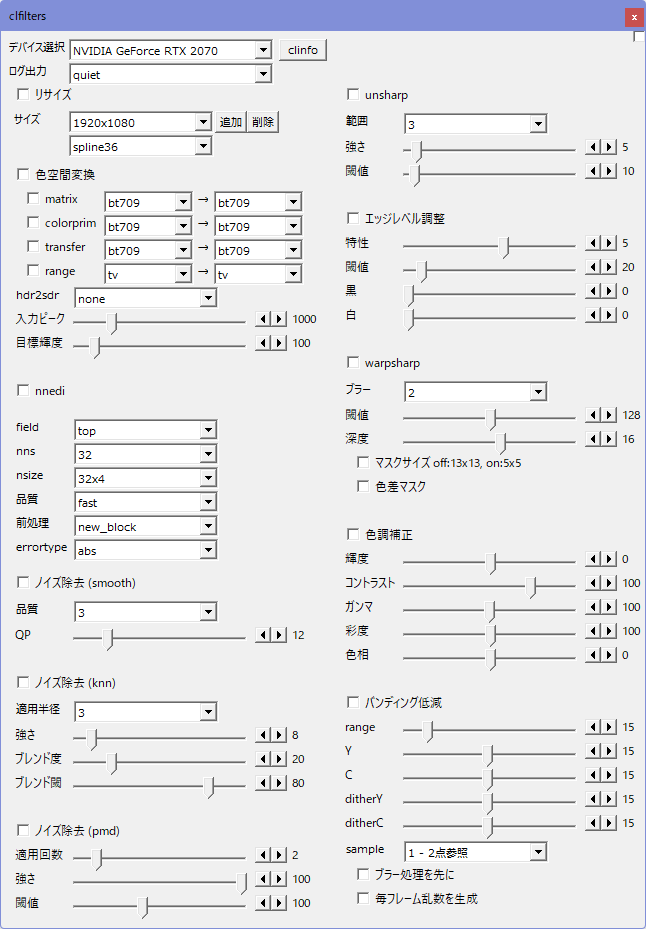
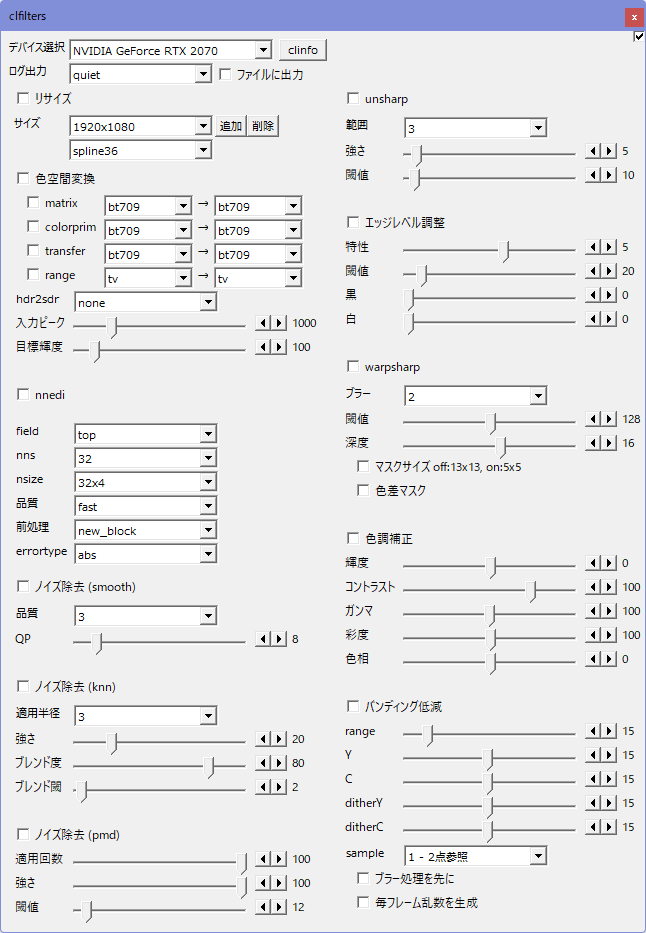
ログ出力の扱いを改善。

diff --git a/clfilters/clfilters_chain.cpp b/clfilters/clfilters_chain.cpp
@@ -39,6 +39,24 @@
 #include "rgy_filter_deband.h"
 #include "rgy_filter_tweak.h"
 
+static const TCHAR *LOG_FILE_NAME = "clfilters.auf.log";
+
+static const auto CLFILTER_TO_STR = make_array<std::pair<clFilter, tstring>>(
+    std::make_pair(clFilter::UNKNOWN,    _T("unknown")),
+    std::make_pair(clFilter::COLORSPACE, _T("colorspace")),
+    std::make_pair(clFilter::NNEDI,      _T("nnedi")),
+    std::make_pair(clFilter::KNN,        _T("knn")),
+    std::make_pair(clFilter::PMD,        _T("pmd")),
+    std::make_pair(clFilter::SMOOTH,     _T("smooth")),
+    std::make_pair(clFilter::RESIZE,     _T("resize")),
+    std::make_pair(clFilter::UNSHARP,    _T("unsharp")),
+    std::make_pair(clFilter::EDGELEVEL,  _T("edgelevel")),
+    std::make_pair(clFilter::WARPSHARP,  _T("warpsharp")),
+    std::make_pair(clFilter::TWEAK,      _T("tweak")),
+    std::make_pair(clFilter::DEBAND,     _T("deband"))
+);
+MAP_PAIR_0_1(clfilter, cl, clFilter, str, tstring, CLFILTER_TO_STR, clFilter::UNKNOWN, _T("unknown"));
+
 clFilterFrameBuffer::clFilterFrameBuffer(std::shared_ptr<RGYOpenCLContext> cl) :
     m_cl(cl),
     m_frame(),
@@ -106,7 +124,8 @@ clFilterChainParam::clFilterChainParam() :
     warpsharp(),
     tweak(),
     deband(),
-    log_level(RGY_LOG_QUIET) {
+    log_level(RGY_LOG_QUIET),
+    log_to_file(false) {
 
 }
 
@@ -123,7 +142,8 @@ bool clFilterChainParam::operator==(const clFilterChainParam &x) const {
         && warpsharp == x.warpsharp
         && tweak == x.tweak
         && deband == x.deband
-        && log_level == x.log_level;
+        && log_level == x.log_level
+        && log_to_file == x.log_to_file;
 }
 bool clFilterChainParam::operator!=(const clFilterChainParam &x) const {
     return !(*this == x);
@@ -180,11 +200,7 @@ void clFilterChain::close() {
     m_deviceID = -1;
 }
 
-void clFilterChain::PrintMes(int logLevel, const TCHAR *format, ...) {
-    if (logLevel < RGY_LOG_ERROR) {
-        return;
-    }
-
+void clFilterChain::PrintMes(const RGYLogLevel logLevel, const TCHAR *format, ...) {
     va_list args;
     va_start(args, format);
 
@@ -193,11 +209,17 @@ void clFilterChain::PrintMes(int logLevel, const TCHAR *format, ...) {
     _vstprintf_s(buffer.data(), len, format, args);
     va_end(args);
 
+    m_log->write_log(logLevel, RGY_LOGT_APP, buffer.data());
+
+    if (logLevel < RGY_LOG_ERROR) {
+        return;
+    }
+
     MessageBoxA(NULL, buffer.data(), AUF_FULL_NAME, MB_OK | MB_ICONEXCLAMATION);
 }
 
-RGY_ERR clFilterChain::init(const int platformID, const int deviceID, const cl_device_type device_type, const RGYLogLevel log_level) {
-    m_log = std::make_shared<RGYLog>("clfiters.auf.log", log_level);
+RGY_ERR clFilterChain::init(const int platformID, const int deviceID, const cl_device_type device_type, const RGYLogLevel log_level, const bool log_to_file) {
+    m_log = std::make_shared<RGYLog>(log_to_file ? LOG_FILE_NAME : nullptr, log_level);
 
     if (auto err = initOpenCL(platformID, deviceID, device_type); err != RGY_ERR_NONE) {
         return err;
@@ -212,15 +234,22 @@ RGY_ERR clFilterChain::init(const int platformID, const int deviceID, const cl_d
                  RGY_CSP_NAMES[RGY_CSP_YC48], RGY_CSP_NAMES[RGY_CSP_YUV444_16]);
         return RGY_ERR_INVALID_COLOR_FORMAT;
     }
+    PrintMes(RGY_LOG_INFO, _T("color conversion %s -> %s [%s].\n"),
+        RGY_CSP_NAMES[RGY_CSP_YC48], RGY_CSP_NAMES[RGY_CSP_YUV444_16], get_simd_str(m_convert_yc48_to_yuv444_16->getFunc()->simd));
+
     m_convert_yuv444_16_to_yc48 = std::make_unique<RGYConvertCSP>();
     if (m_convert_yuv444_16_to_yc48->getFunc(RGY_CSP_YUV444_16, RGY_CSP_YC48, false, RGY_SIMD::SIMD_ALL) == nullptr) {
         PrintMes(RGY_LOG_ERROR, _T("unsupported color format conversion, %s -> %s\n"), RGY_CSP_NAMES[RGY_CSP_YUV444_16], RGY_CSP_NAMES[RGY_CSP_YC48]);
         return RGY_ERR_INVALID_COLOR_FORMAT;
     }
+    PrintMes(RGY_LOG_INFO, _T("color conversion %s -> %s [%s].\n"),
+        RGY_CSP_NAMES[RGY_CSP_YUV444_16], RGY_CSP_NAMES[RGY_CSP_YC48], get_simd_str(m_convert_yuv444_16_to_yc48->getFunc()->simd));
     return RGY_ERR_NONE;
 }
 
 RGY_ERR clFilterChain::initOpenCL(const int platformID, const int deviceID, const cl_device_type device_type) {
+    PrintMes(RGY_LOG_INFO, _T("start init OpenCL platform %d, device %d\n"), platformID, deviceID);
+
     RGYOpenCL cl(m_log);
     auto platforms = cl.getPlatforms(nullptr);
     if (platforms.size() == 0) {
@@ -232,6 +261,7 @@ RGY_ERR clFilterChain::initOpenCL(const int platformID, const int deviceID, cons
         PrintMes(RGY_LOG_ERROR, _T("platform %d does not exist (platform count = %d)\n"), platformID, (int)platforms.size());
         return RGY_ERR_DEVICE_NOT_FOUND;
     }
+    PrintMes(RGY_LOG_INFO, _T("OpenCL platform count %d\n"), (int)platforms.size());
 
     auto& platform = platforms[std::max(platformID, 0)];
 
@@ -240,7 +270,7 @@ RGY_ERR clFilterChain::initOpenCL(const int platformID, const int deviceID, cons
         PrintMes(RGY_LOG_ERROR, _T("Failed to create device list: %s\n"), get_err_mes(err));
         return RGY_ERR_DEVICE_NOT_FOUND;
     }
-    PrintMes(RGY_LOG_DEBUG, _T("created device list: %d device(s).\n"), platform->devs().size());
+    PrintMes(RGY_LOG_INFO, _T("created device list: %d device(s).\n"), platform->devs().size());
 
     if (deviceID >= 0 && deviceID >= (int)platform->devs().size()) {
         PrintMes(RGY_LOG_ERROR, _T("Invalid device Id %d (device count %d)\n"), deviceID, (int)platform->devs().size());
@@ -253,12 +283,14 @@ RGY_ERR clFilterChain::initOpenCL(const int platformID, const int deviceID, cons
         PrintMes(RGY_LOG_ERROR, _T("Failed to create OpenCL context.\n"));
         return RGY_ERR_UNKNOWN;
     }
+
     const auto devInfo = platform->dev(0).info();
     m_deviceName = (devInfo.board_name_amd.length() > 0) ? devInfo.board_name_amd : devInfo.name;
     m_platformID = platformID;
     m_deviceID = deviceID;
     m_queueSendIn = m_cl->createQueue(platform->dev(0).id(), 0 /*CL_QUEUE_PROFILING_ENABLE*/);
 
+    PrintMes(RGY_LOG_INFO, _T("created OpenCL context, selcted device %s.\n"), m_deviceName.c_str());
     return RGY_ERR_NONE;
 }
 
@@ -482,6 +514,15 @@ RGY_ERR clFilterChain::configureOneFilter(std::unique_ptr<RGYFilter>& filter, RG
     return RGY_ERR_NONE;
 }
 
+tstring clFilterChain::printFilterChain(const std::vector<clFilter>& filterChain) const {
+    tstring str;
+    for (auto& filter : filterChain) {
+        if (str.length() > 0) str += _T(", ");
+        str += clfilter_cl_to_str(filter);
+    }
+    return str;
+}
+
 bool clFilterChain::filterChainEqual(const std::vector<clFilter>& target) const {
     if (m_filters.size() != target.size()) {
         return false;
@@ -503,6 +544,8 @@ RGY_ERR clFilterChain::filterChainCreate(const RGYFrameInfo *pInputFrame, const 
     const bool resizeRequired = pInputFrame->width != outWidth || pInputFrame->height != outHeight;
     const auto filterChain = m_prm.getFilterChain(resizeRequired);
     if (!filterChainEqual(filterChain)) {
+        PrintMes(RGY_LOG_INFO, _T("clFilterChain changed: %s\n"), printFilterChain(filterChain).c_str());
+
         decltype(m_filters) newFilters;
         newFilters.reserve(filterChain.size());
         for (const auto filterType : filterChain) {
@@ -530,6 +573,7 @@ RGY_ERR clFilterChain::filterChainCreate(const RGYFrameInfo *pInputFrame, const 
 void clFilterChain::resetPipeline() {
     m_frameIn->resetCachedFrames();
     m_frameOut->resetCachedFrames();
+    PrintMes(RGY_LOG_DEBUG, _T("clFilterChain reset pipeline.\n"));
 }
 
 static void copyFramePropWithoutCsp(RGYFrameInfo *dst, const RGYFrameInfo *src) {
@@ -624,6 +668,7 @@ RGY_ERR clFilterChain::proc(const int frameID, const int outWidth, const int out
     }
     m_cl->setModuleHandle(prm.hModule);
     m_log->setLogLevel(prm.log_level, RGY_LOGT_ALL);
+    m_log->setLogFile(prm.log_to_file ? LOG_FILE_NAME : nullptr);
     m_prm = prm;
 
     auto frameDevOut = m_frameOut->get_in(outWidth, outHeight);

diff --git a/clfilters/clfilters.cpp b/clfilters/clfilters.cpp
@@ -333,6 +333,7 @@ const TCHAR *check_name[] = {
 #if ENABLE_FIELD
     "フィールド処理",
 #endif //#if ENABLE_FIELD
+    "ファイルに出力", // log to file
     "リサイズ",
     "色空間変換", "matrix", "colorprim", "transfer", "range",
     "ノイズ除去 (smooth)",
@@ -350,7 +351,10 @@ enum {
 #if ENABLE_FIELD
     CLFILTER_CHECK_FIELD,
 #endif //#if ENABLE_FIELD
-    CLFILTER_CHECK_RESIZE_ENABLE,
+    CLFILTER_CHECK_LOG_TO_FILE,
+    CLFILTER_CHECK_LOG_MAX,
+
+    CLFILTER_CHECK_RESIZE_ENABLE = CLFILTER_CHECK_LOG_MAX,
     CLFILTER_CHECK_RESIZE_MAX,
 
     CLFILTER_CHECK_COLORSPACE_ENABLE = CLFILTER_CHECK_RESIZE_MAX,
@@ -399,6 +403,7 @@ int check_default[] = {
 #if ENABLE_FIELD
     0, // field
 #endif //#if ENABLE_FIELD
+    0, // log to file
     0, // resize
     0, 0, 0, 0, 0, // colorspace
     0, // smooth
@@ -1232,7 +1237,7 @@ void init_dialog(HWND hwnd, FILTER *fp) {
     SendMessage(lb_log_level, WM_SETFONT, (WPARAM)b_font, 0);
     SendMessage(lb_log_level, WM_SETTEXT, 0, (LPARAM)"ログ出力");
 
-    cx_log_level = CreateWindow("COMBOBOX", "", WS_CHILD | WS_VISIBLE | CBS_DROPDOWNLIST | WS_VSCROLL, 68, cb_log_level_y, 205, 100, hwnd, (HMENU)ID_CX_LOG_LEVEL, hinst, NULL);
+    cx_log_level = CreateWindow("COMBOBOX", "", WS_CHILD | WS_VISIBLE | CBS_DROPDOWNLIST | WS_VSCROLL, 68, cb_log_level_y, 145, 100, hwnd, (HMENU)ID_CX_LOG_LEVEL, hinst, NULL);
     SendMessage(cx_log_level, WM_SETFONT, (WPARAM)b_font, 0);
 
     for (const auto& log_level : RGY_LOG_LEVEL_STR) {
@@ -1250,8 +1255,12 @@ void init_dialog(HWND hwnd, FILTER *fp) {
     const int cb_filed_y = cb_log_level_y;
 #endif //#if ENABLE_FIELD
 
+    // log to file
+    GetWindowRect(child_hwnd[checkbox_idx + CLFILTER_CHECK_LOG_TO_FILE], &rc);
+    SetWindowPos(child_hwnd[checkbox_idx + CLFILTER_CHECK_LOG_TO_FILE], HWND_TOP, 218, cb_log_level_y+4, 0, 0, SWP_NOACTIVATE | SWP_NOSIZE | SWP_NOZORDER);
+
     //リサイズ
-    const int cb_resize_y = cb_filed_y + 24;
+    const int cb_resize_y = cb_filed_y + 28;
     GetWindowRect(child_hwnd[checkbox_idx + CLFILTER_CHECK_RESIZE_ENABLE], &rc);
     SetWindowPos(child_hwnd[checkbox_idx + CLFILTER_CHECK_RESIZE_ENABLE], HWND_TOP, rc.left - dialog_rc.left, cb_resize_y, 0, 0, SWP_NOACTIVATE | SWP_NOSIZE | SWP_NOZORDER);
 
@@ -1362,6 +1371,7 @@ static clFilterChainParam func_proc_get_param(const FILTER *fp) {
     //dllのモジュールハンドル
     prm.hModule = fp->dll_hinst;
     prm.log_level = cl_exdata.log_level;
+    prm.log_to_file = fp->check[CLFILTER_CHECK_LOG_TO_FILE] != 0;
 
     //リサイズ
     prm.resize_algo        = (RGY_VPP_RESIZE_ALGO)cl_exdata.resize_algo;
@@ -1486,7 +1496,7 @@ BOOL func_proc(FILTER *fp, FILTER_PROC_INFO *fpip) {
         clfilter = std::make_unique<clFilterChain>();
         std::string mes = AUF_FULL_NAME;
         mes += ": ";
-        if (clfilter->init(cl_exdata.cl_dev_id.s.platform, cl_exdata.cl_dev_id.s.device, CL_DEVICE_TYPE_GPU, cl_exdata.log_level)) {
+        if (clfilter->init(cl_exdata.cl_dev_id.s.platform, cl_exdata.cl_dev_id.s.device, CL_DEVICE_TYPE_GPU, cl_exdata.log_level, fp->check[CLFILTER_CHECK_LOG_TO_FILE] != 0)) {
             mes += "フィルタは無効です: OpenCLを使用できません。";
             SendMessage(fp->hwnd, WM_SETTEXT, 0, (LPARAM)mes.c_str());
             return FALSE;

diff --git a/clfilters/clfilters_chain.h b/clfilters/clfilters_chain.h
@@ -67,6 +67,7 @@ struct clFilterChainParam {
     VppDeband deband;
     VppTweak tweak;
     RGYLogLevel log_level;
+    bool log_to_file;
 
     clFilterChainParam();
     bool operator==(const clFilterChainParam &x) const;
@@ -99,7 +100,7 @@ public:
     clFilterChain();
     ~clFilterChain();
 
-    RGY_ERR init(const int platformID, const int deviceID, const cl_device_type device_type, const RGYLogLevel log_level);
+    RGY_ERR init(const int platformID, const int deviceID, const cl_device_type device_type, const RGYLogLevel log_level, const bool log_to_file);
 
     void resetPipeline();
     RGY_ERR sendInFrame(const RGYFrameInfo *pInputFrame);
@@ -117,7 +118,8 @@ private:
     bool filterChainEqual(const std::vector<clFilter>& objchain) const;
     RGY_ERR filterChainCreate(const RGYFrameInfo *pInputFrame, const int outWidth, const int outHeight);
     RGY_ERR configureOneFilter(std::unique_ptr<RGYFilter>& filter, RGYFrameInfo& inputFrame, const clFilter filterType, const int resizeWidth, const int resizeHeight);
-    void PrintMes(int logLevel, const TCHAR *format, ...);
+    void PrintMes(const RGYLogLevel logLevel, const TCHAR *format, ...);
+    tstring printFilterChain(const std::vector<clFilter>& objchain) const;
 
     std::shared_ptr<RGYLog> m_log;
     clFilterChainParam m_prm;

diff --git a/filter_core/rgy_log.h b/filter_core/rgy_log.h
@@ -175,6 +175,9 @@ public:
     bool logFileAvail() {
         return m_pStrLog != nullptr;
     }
+    void setLogFile(const TCHAR *pLogFile) {
+        m_pStrLog = pLogFile;
+    }
     virtual void write_log(RGYLogLevel log_level, const RGYLogType logtype, const TCHAR *buffer, bool file_only = false);
     virtual void write(RGYLogLevel log_level, const RGYLogType logtype, const TCHAR *format, ...);
     virtual void write(RGYLogLevel log_level, const RGYLogType logtype, const wchar_t *format, va_list args);
